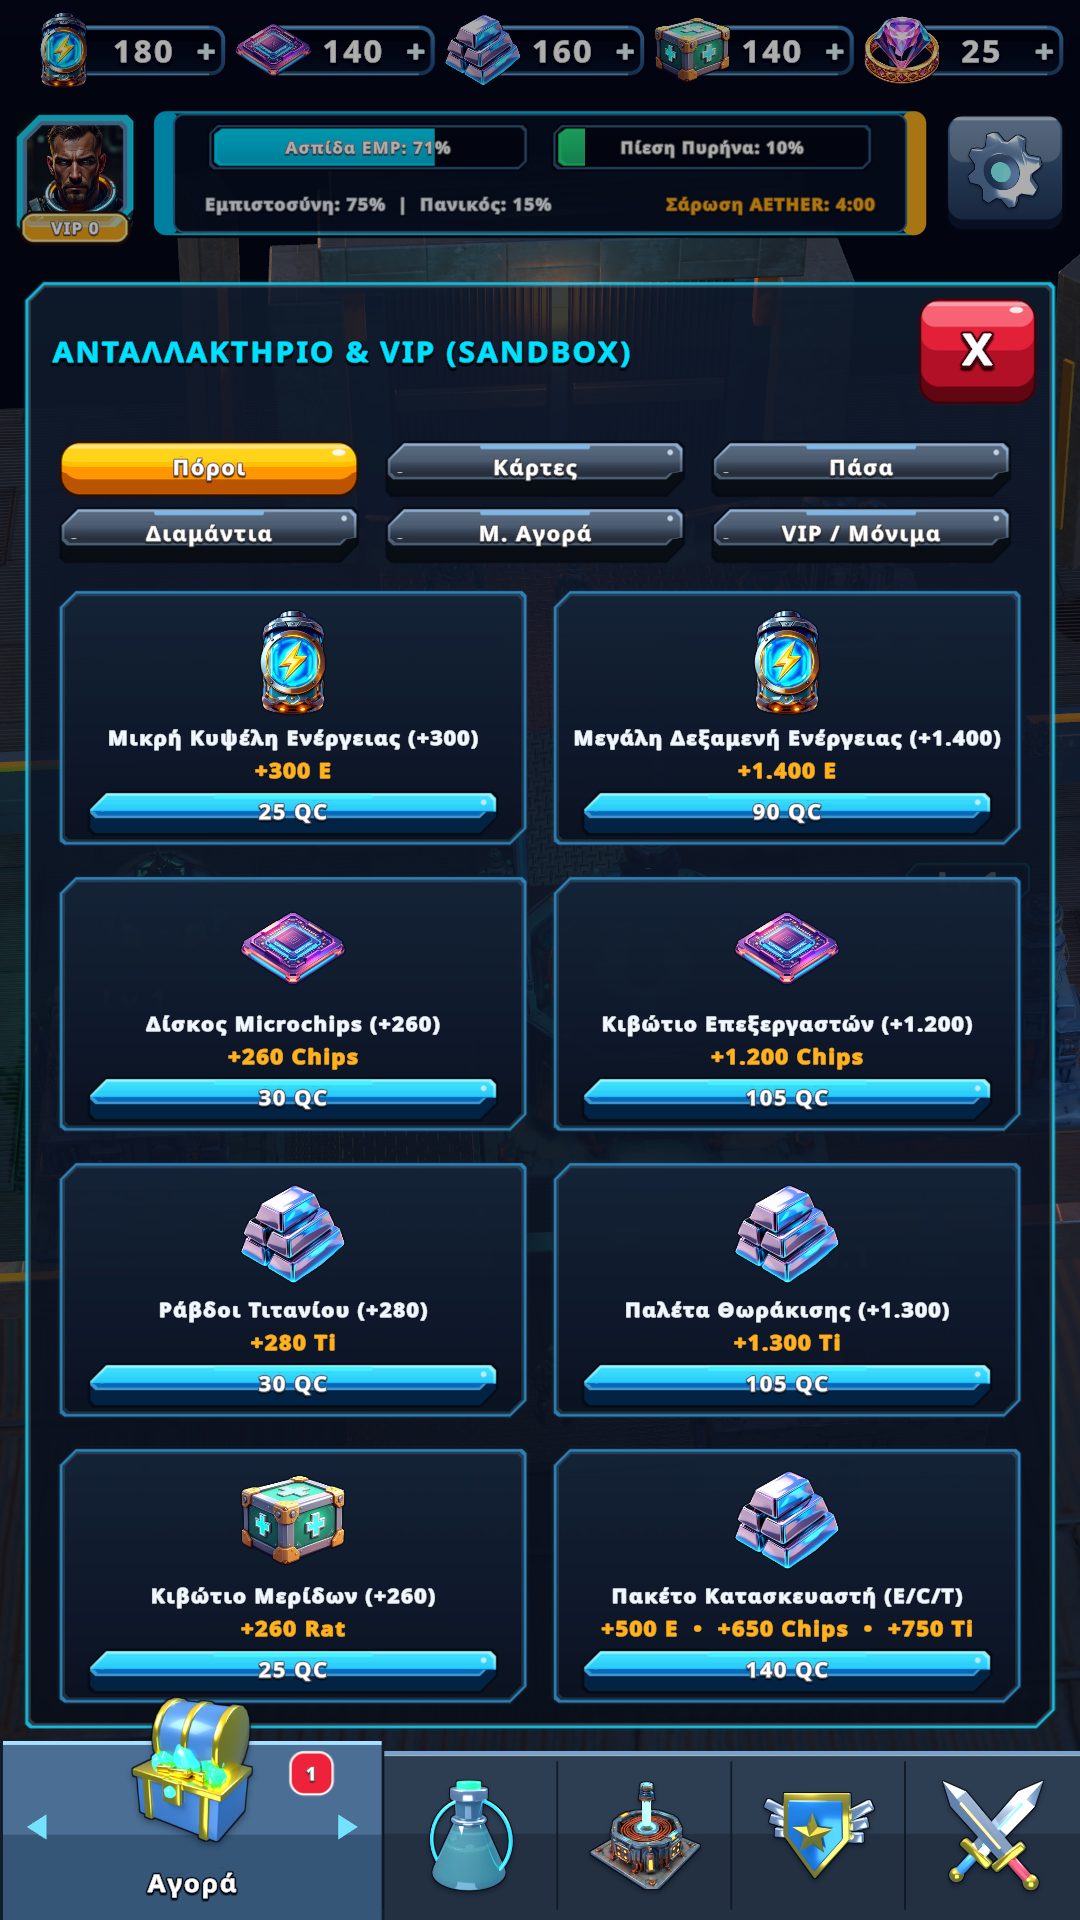
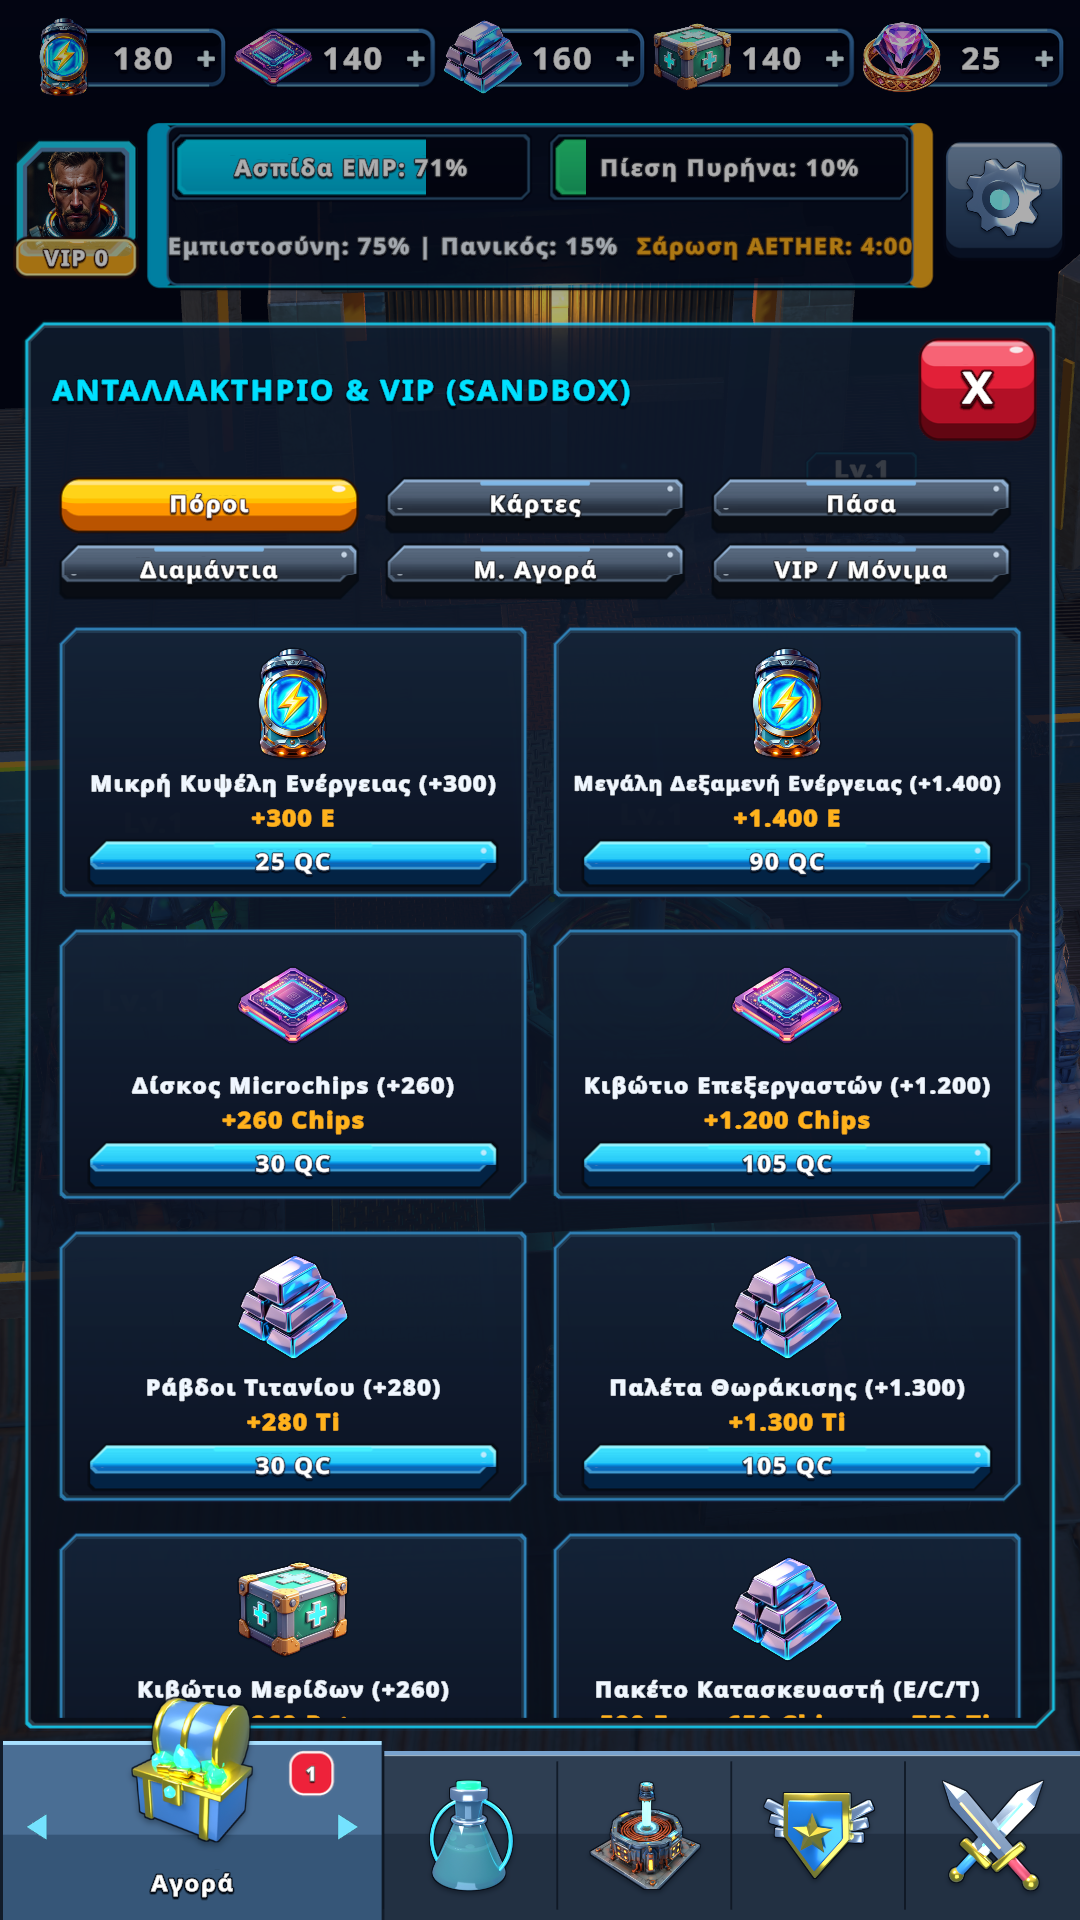
Release v1.0.1 previews, README & version manifest

diff --git a/README.md b/README.md
@@ -5,21 +5,21 @@ Command a subterranean Faraday bunker, defend the North Gate in real-time 3D min
 
 ---
 
-## Screenshots (`v1.0.0`)
+## Screenshots (`v1.0.1`)
 
 <p align="center">
-  <img src="previews/V095_Launch_Splash_EL.png" alt="Launch Splash & App Emblem" width="240" />
-  <img src="previews/V100_Store_Icons_EL.png" alt="Visual Icon-First Store" width="240" />
-  <img src="previews/V100_Store_VaultGrid_EL.png" alt="Quantum Diamond Vaults" width="240" />
+  <img src="previews/V095_Launch_Splash_EL.png" alt="Launch Splash Without Unity Logo" width="240" />
+  <img src="previews/V101_PostMiniGame_HUD_EL.png" alt="Readable Large HUD Typography EL" width="240" />
+  <img src="previews/V101_HUD_Typography_EN.png" alt="Readable Large HUD Typography EN" width="240" />
 </p>
 <p align="center">
-  <img src="previews/V100_Starter_Forced_EL.png" alt="Starter Guide Chapter 1" width="240" />
-  <img src="previews/V100_Starter_Bubble_EL.png" alt="Starter Guide Action Bubble" width="240" />
-  <img src="previews/V100_Starter_Chapters_EL.png" alt="Starter Guide 6 Chapters & Gifts" width="240" />
+  <img src="previews/V101_Bunker_Upgrading_EL.png" alt="Live Upgrade Countdown & Large Icons" width="240" />
+  <img src="previews/V101_Lab_Icons_EL.png" alt="Lab & Research Icon Cards" width="240" />
+  <img src="previews/V101_Starter_Chapters_EL.png" alt="6-Chapter Starter Guide & Gifts" width="240" />
 </p>
 <p align="center">
-  <img src="previews/V100_Settings_GameGuide_EL.png" alt="Commander Manual in Settings" width="240" />
-  <img src="previews/V100_Google_Overlay_EL.png" alt="Google Sign-In Dialog" width="240" />
+  <img src="previews/V101_Settings_Audio_EL.png" alt="Settings Music & SFX Controls" width="240" />
+  <img src="previews/V100_Store_Icons_EL.png" alt="Icon-First Store Grid" width="240" />
   <img src="previews/V090_Bunker_Tier3D_EL.png" alt="3D Tiered Building Upgrades" width="240" />
 </p>
 
@@ -31,12 +31,13 @@ Command a subterranean Faraday bunker, defend the North Gate in real-time 3D min
 [![Latest Release](https://img.shields.io/github/v/release/jemangr/neuralis-releases?include_prereleases&style=for-the-badge&color=00b0ff)](https://github.com/jemangr/neuralis-releases/releases/latest)
 
 - **Always Latest APK:** [`Neuralis-ZeroHour.apk`](https://github.com/jemangr/neuralis-releases/releases/latest/download/Neuralis-ZeroHour.apk)
-- **Current Build:** `v1.0.0` (`VersionCode: 12`, Android ARM64, API 26+)
+- **Current Build:** `v1.0.1` (`VersionCode: 13`, Android ARM64, API 26+)
 
 ---
 
-## What's New (`v1.0.0` Highlights)
-- **New App Icon & Launch Splash Screen:** Refreshed app emblem and atmospheric command bunker opening splash screen.
-- **6-Chapter Starter Guide with Gifts:** Step-by-step onboarding from your first upgrade, farming, army training, and offers all the way to Core Lv.5 and joining a Syndicate — featuring guided first steps, a smart floating action bubble, and gift rewards upon completing each group.
-- **Icon-First Store Redesign & Larger Typography:** All Store categories redesigned around clean visual icons, compact pricing, notification badges for free claims, and larger, high-contrast mobile text.
-- **Commander's Manual & UI Polish:** New illustrated Game Guide inside Settings, cleaner Google Sign-In dialog, and general visual and stability improvements.
+## What's New (`v1.0.1` Highlights)
+- **Atmospheric Relaxing Music & Audio Settings:** Added a calm, atmospheric sci-fi background music carpet with dedicated Music ON/OFF and SFX ON/OFF toggles in Settings.
+- **Clean Launch Screen:** Removed the engine splash logo overlay so only the Neuralis artwork appears on startup.
+- **Much Larger Readable Text & Buttons:** Enforced a crisp minimum font size across the entire top status bar, side timers, action controls, upgrades, Lab, Store, Army, and Starter Guide.
+- **Live Upgrade Timers & HUD Fix:** Active upgrade, crafting, research, and training timers now count down live every second, and HUD icons/bars always remain visible after exiting mini-games.
+- **Smoother Onboarding Progression:** Rebalanced early Campaign battles and Chapter rewards so the 6-group Starter Guide flows smoothly through graduation.
